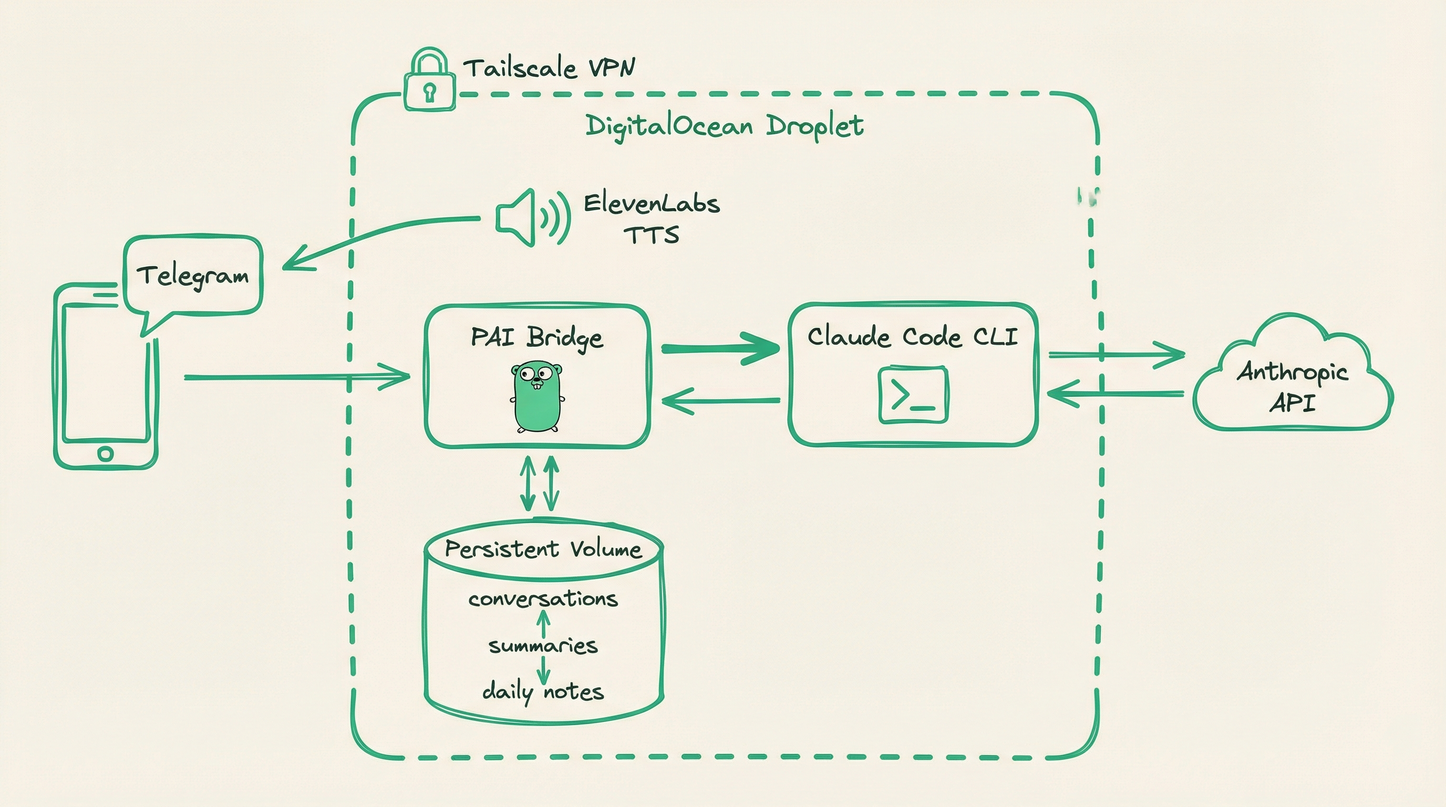
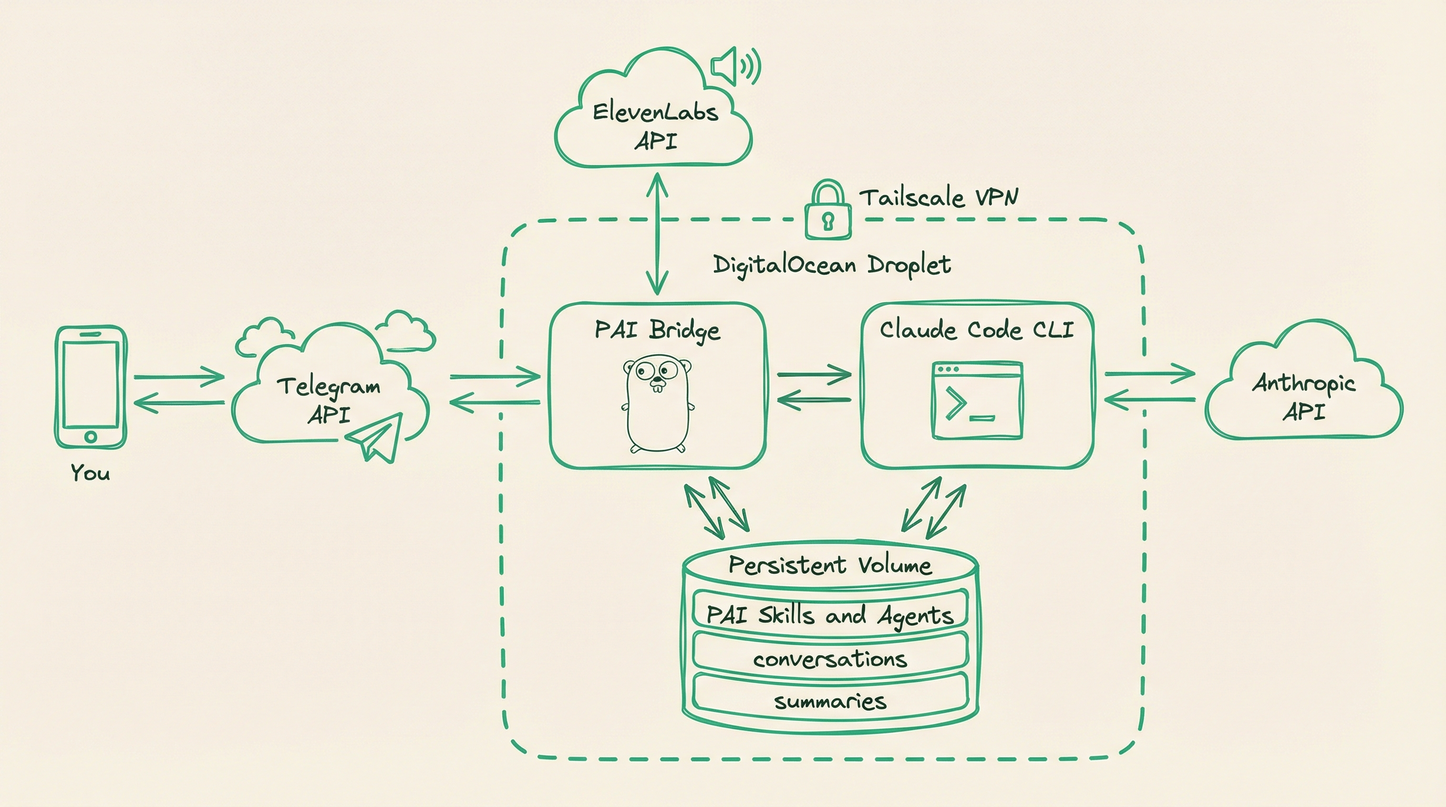
Update architecture diagram and document PAI Infrastructure
- Replace diagram with v6: ElevenLabs as external API, PAI Skills
  and Agents on persistent volume, all three external services as clouds
- Add PAI Infrastructure section to README with link to upstream project
- Add PAI to runtime line in architecture summary

diff --git a/README.md b/README.md
@@ -10,7 +10,7 @@ Self-hosted Claude Code + Telegram Bridge on DigitalOcean, deployed via OpenTofu
 - **Storage**: 10GB persistent DO Volume at `/mnt/pai-data`
 - **Network**: Tailscale VPN mesh (zero inbound firewall rules, no public exposure)
 - **Security**: Privilege separation (bridge=root, Claude=pai), metadata API blocked, UFW on tailscale0 only, fail2ban
-- **Runtime**: Claude Code (native binary) + PAI Bridge (Go static binary)
+- **Runtime**: Claude Code (native binary) + PAI Bridge (Go static binary) + [Personal AI Infrastructure](https://github.com/danielmiessler/Personal_AI_Infrastructure)
 - **Interface**: Telegram bot via TelegramBridge daemon
 - **Voice**: ElevenLabs TTS → OGG/OPUS → Telegram voice notes (optional)
 - **Auth**: Claude subscription via OAuth token (no metered API billing)
@@ -33,6 +33,10 @@ The bridge is a lightweight Go binary (~10MB) that:
 6. Synthesizes voice responses via ElevenLabs when Claude outputs `VOICE:` directives
 
 Claude Code runs against your subscription (Pro/Max), not metered API.
+
+### Personal AI Infrastructure
+
+This project builds on [Daniel Miessler's Personal AI Infrastructure](https://github.com/danielmiessler/Personal_AI_Infrastructure) (PAI), which provides the skill system, agent definitions, hooks, and memory architecture that Claude Code uses. PAI is installed on the persistent volume after the droplet is provisioned, and is managed by the agent itself across sessions.
 
 ### Message Queue
 
